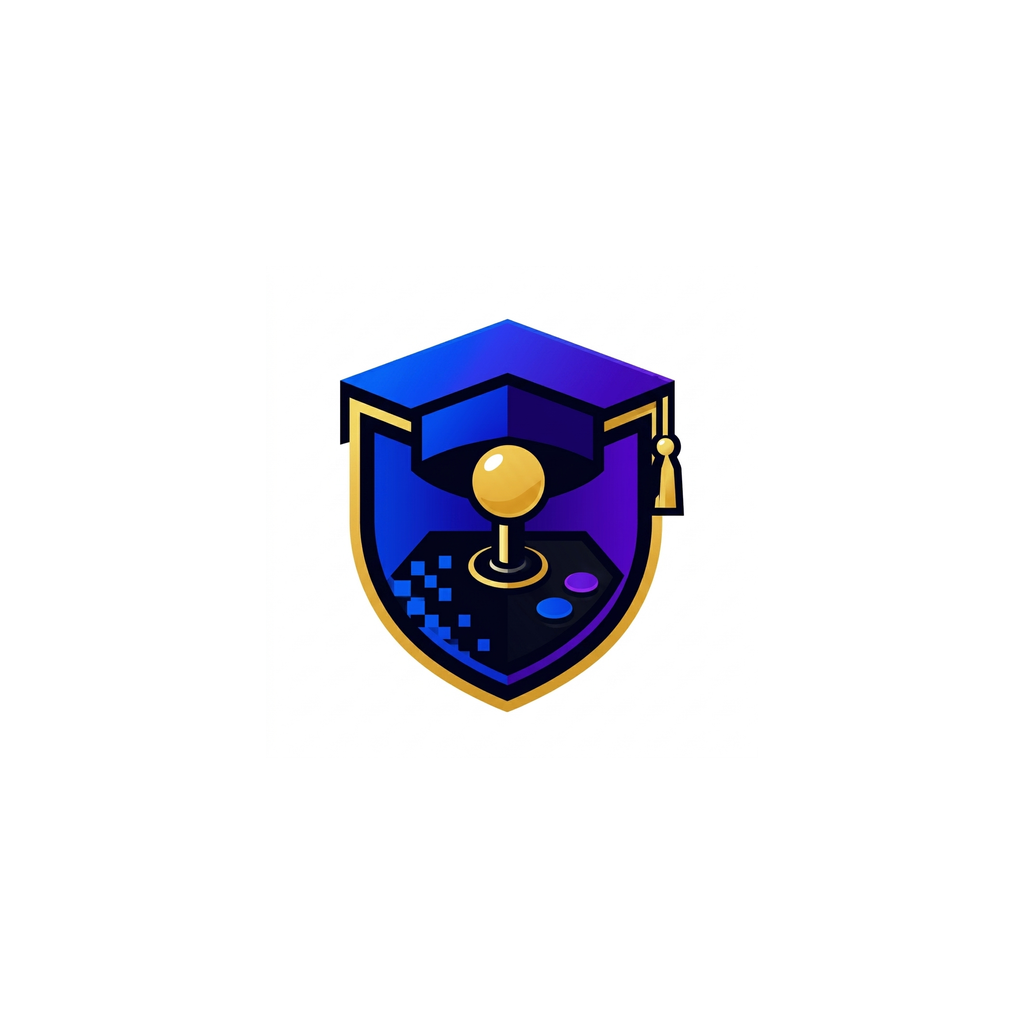
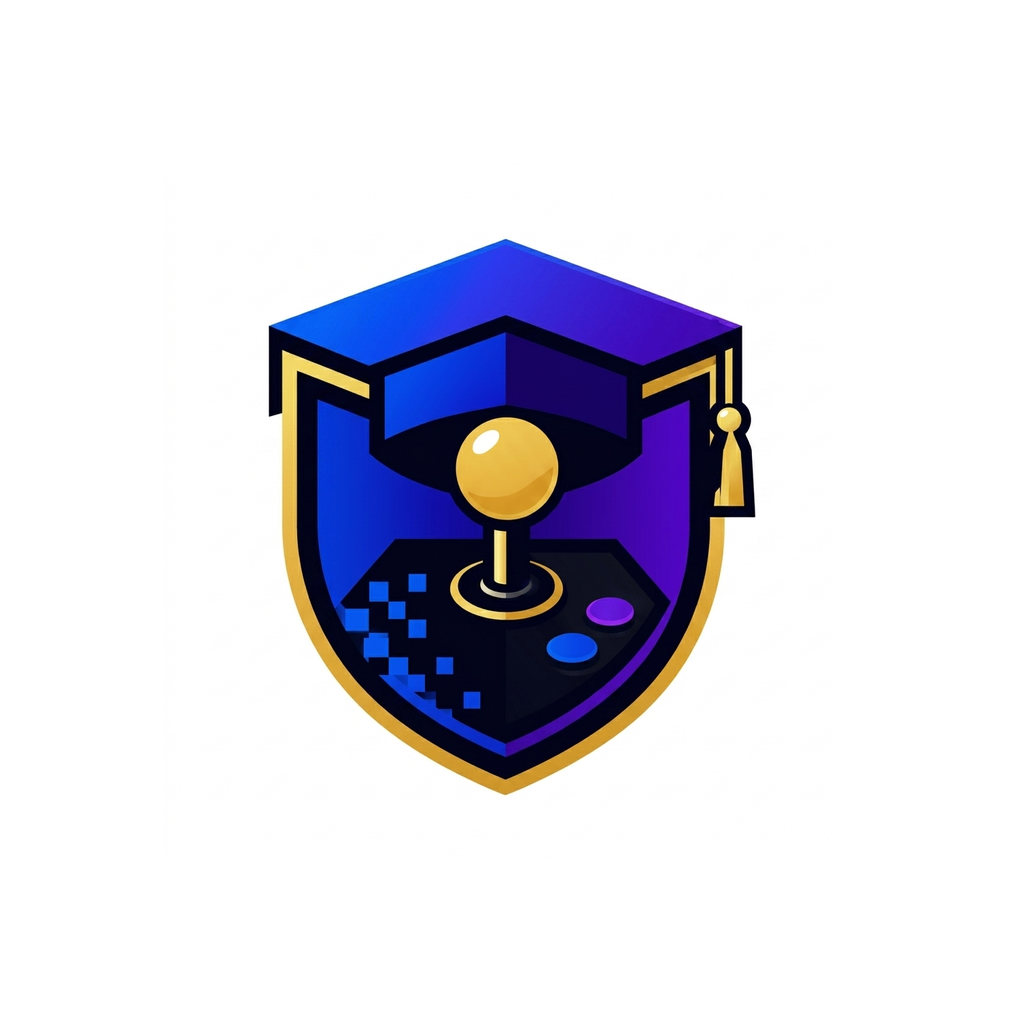
fix:models and minors

Changed region(s): [[0.25, 0.2188, 0.75, 0.7812]]

diff --git a/scripts/pad-adaptive-icon.js b/scripts/pad-adaptive-icon.js
@@ -2,7 +2,7 @@ const sharp = require('sharp');
 const path = require('path');
 
 const CANVAS = 1024;
-const LOGO_SIZE = Math.round(CANVAS * 0.48); // 48% → ~491px — fits inside all launcher masks
+const LOGO_SIZE = Math.round(CANVAS * 0.68); // 68% → ~696px — fills safe zone, no clipping
 const OFFSET = Math.round((CANVAS - LOGO_SIZE) / 2); // centered padding
 
 const input  = path.resolve(__dirname, '../assets/logo_transparent.png');
